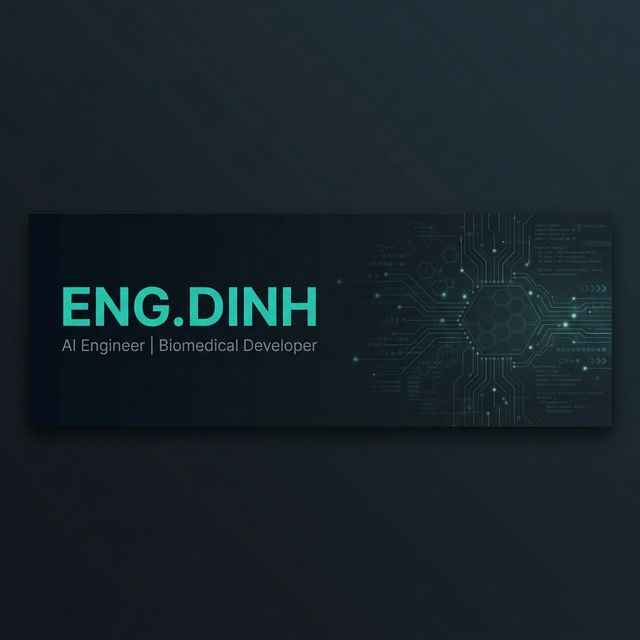
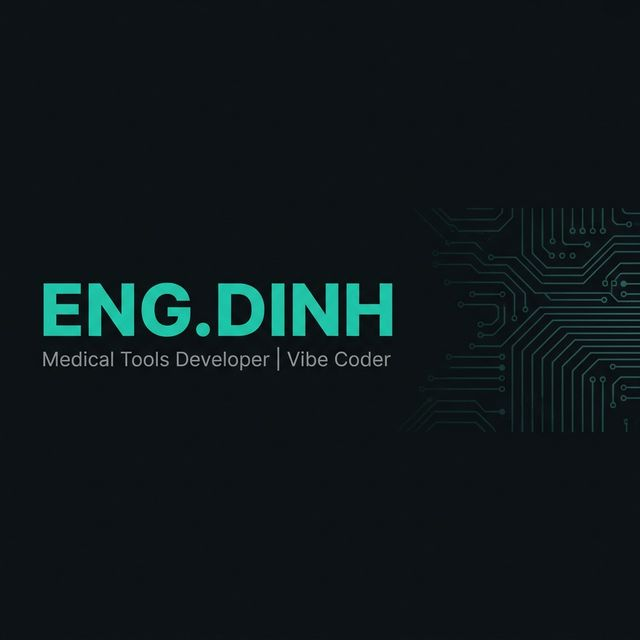
fix: compact cover, updated bio - Medical Tools Dev & Vibe Coder

diff --git a/README.md b/README.md
@@ -1,18 +1,15 @@
 
 <div align="center">
-  <img width="100%" src="cover-git.png" alt="ENG.DINH - AI Engineer & Biomedical Developer" />
+  <img width="100%" height="200" src="cover-git.png" alt="ENG.DINH" />
 </div>
 
 <div align="center">
-  <a href="https://git.io/typing-svg"><img src="https://readme-typing-svg.demolab.com?font=Fira+Code&weight=600&size=22&pause=1000&color=2dd4bf&center=true&vCenter=true&random=false&width=600&lines=AI+Engineer+%7C+Biomedical+Developer;3%2B+Years+of+Engineering+Experience;Building+Intelligent+Systems+%26+Tools;From+Medical+Devices+to+Trading+Bots" alt="Typing SVG" /></a>
+  <a href="https://git.io/typing-svg"><img src="https://readme-typing-svg.demolab.com?font=Fira+Code&weight=600&size=20&pause=1000&color=2dd4bf&center=true&vCenter=true&random=false&width=500&lines=Medical+Tools+Developer;Vibe+Coder+%F0%9F%9A%80;3%2B+Years+of+IT+Experience;From+Ho+Chi+Minh+City+%F0%9F%87%BB%F0%9F%87%B3" alt="Typing SVG" /></a>
 </div>
-
-<br/>
 
 <div align="center">
   <a href="https://www.linkedin.com/in/sang-dinh-a31856160/"><img src="https://img.shields.io/badge/LinkedIn-0A66C2?style=for-the-badge&logo=linkedin&logoColor=white" /></a>
   <a href="https://www.facebook.com/hoangsang2020/"><img src="https://img.shields.io/badge/Facebook-1877F2?style=for-the-badge&logo=facebook&logoColor=white" /></a>
-  <a href="mailto:dinhsang1999@gmail.com"><img src="https://img.shields.io/badge/Gmail-EA4335?style=for-the-badge&logo=gmail&logoColor=white" /></a>
 </div>
 
 ---
@@ -21,15 +18,15 @@
 
 ```yaml
 name: "ĐINH HOÀNG SÁNG (ENG.DINH)"
-role: "AI Engineer & Biomedical Developer"
+role: "IT Developer — Medical Tools & Vibe Coder"
 location: "Ho Chi Minh City, Vietnam 🇻🇳"
 education: "B.Eng Biomedical Engineering — International University (VNU-HCM)"
-experience: "3+ years in AI/ML & Medical Engineering"
+experience: "3+ years"
 
-current_focus:
-  - "Building AI-powered clinical & trading systems"
-  - "Quantitative analysis & TradingView indicators"
-  - "Full-stack development with Python & JavaScript"
+what_i_do:
+  - "Developing medical software & clinical tools"
+  - "Vibe coding — building things fast with AI-assisted tools"
+  - "TradingView indicators & quantitative scripts"
 ```
 
 ---
@@ -38,79 +35,51 @@ current_focus:
 
 <div align="center">
 
-### 🤖 AI / Machine Learning
-![Python](https://img.shields.io/badge/Python-3776AB?style=for-the-badge&logo=python&logoColor=white)
-![PyTorch](https://img.shields.io/badge/PyTorch-EE4C2C?style=for-the-badge&logo=pytorch&logoColor=white)
-![TensorFlow](https://img.shields.io/badge/TensorFlow-FF6F00?style=for-the-badge&logo=tensorflow&logoColor=white)
-![scikit-learn](https://img.shields.io/badge/Scikit--Learn-F7931E?style=for-the-badge&logo=scikitlearn&logoColor=white)
-![OpenCV](https://img.shields.io/badge/OpenCV-5C3EE8?style=for-the-badge&logo=opencv&logoColor=white)
-![Pandas](https://img.shields.io/badge/Pandas-150458?style=for-the-badge&logo=pandas&logoColor=white)
-![NumPy](https://img.shields.io/badge/NumPy-013243?style=for-the-badge&logo=numpy&logoColor=white)
+### 🐍 Languages
+![Python](https://img.shields.io/badge/Python-3776AB?style=flat-square&logo=python&logoColor=white)
+![JavaScript](https://img.shields.io/badge/JavaScript-F7DF1E?style=flat-square&logo=javascript&logoColor=black)
+![TypeScript](https://img.shields.io/badge/TypeScript-3178C6?style=flat-square&logo=typescript&logoColor=white)
+![Pine Script](https://img.shields.io/badge/Pine_Script-2962FF?style=flat-square&logo=tradingview&logoColor=white)
 
-### 🌐 Web & Full-Stack
-![JavaScript](https://img.shields.io/badge/JavaScript-F7DF1E?style=for-the-badge&logo=javascript&logoColor=black)
-![TypeScript](https://img.shields.io/badge/TypeScript-3178C6?style=for-the-badge&logo=typescript&logoColor=white)
-![React](https://img.shields.io/badge/React-61DAFB?style=for-the-badge&logo=react&logoColor=black)
-![Node.js](https://img.shields.io/badge/Node.js-339933?style=for-the-badge&logo=nodedotjs&logoColor=white)
-![FastAPI](https://img.shields.io/badge/FastAPI-009688?style=for-the-badge&logo=fastapi&logoColor=white)
-![Flask](https://img.shields.io/badge/Flask-000000?style=for-the-badge&logo=flask&logoColor=white)
-![HTML5](https://img.shields.io/badge/HTML5-E34F26?style=for-the-badge&logo=html5&logoColor=white)
-![CSS3](https://img.shields.io/badge/CSS3-1572B6?style=for-the-badge&logo=css3&logoColor=white)
+### 🧠 AI / ML
+![PyTorch](https://img.shields.io/badge/PyTorch-EE4C2C?style=flat-square&logo=pytorch&logoColor=white)
+![TensorFlow](https://img.shields.io/badge/TensorFlow-FF6F00?style=flat-square&logo=tensorflow&logoColor=white)
+![scikit-learn](https://img.shields.io/badge/Scikit--Learn-F7931E?style=flat-square&logo=scikitlearn&logoColor=white)
+![OpenCV](https://img.shields.io/badge/OpenCV-5C3EE8?style=flat-square&logo=opencv&logoColor=white)
 
-### 📊 Trading & Quant
-![TradingView](https://img.shields.io/badge/TradingView-131722?style=for-the-badge&logo=tradingview&logoColor=white)
-![Pine Script](https://img.shields.io/badge/Pine_Script-2962FF?style=for-the-badge&logo=tradingview&logoColor=white)
-![MATLAB](https://img.shields.io/badge/MATLAB-0076A8?style=for-the-badge&logo=mathworks&logoColor=white)
+### 🌐 Web & Backend
+![React](https://img.shields.io/badge/React-61DAFB?style=flat-square&logo=react&logoColor=black)
+![Node.js](https://img.shields.io/badge/Node.js-339933?style=flat-square&logo=nodedotjs&logoColor=white)
+![FastAPI](https://img.shields.io/badge/FastAPI-009688?style=flat-square&logo=fastapi&logoColor=white)
+![Flask](https://img.shields.io/badge/Flask-000?style=flat-square&logo=flask&logoColor=white)
+![HTML5](https://img.shields.io/badge/HTML5-E34F26?style=flat-square&logo=html5&logoColor=white)
+![CSS3](https://img.shields.io/badge/CSS3-1572B6?style=flat-square&logo=css3&logoColor=white)
 
-### 🛠 DevOps & Tools
-![Git](https://img.shields.io/badge/Git-F05032?style=for-the-badge&logo=git&logoColor=white)
-![Docker](https://img.shields.io/badge/Docker-2496ED?style=for-the-badge&logo=docker&logoColor=white)
-![Linux](https://img.shields.io/badge/Linux-FCC624?style=for-the-badge&logo=linux&logoColor=black)
-![VS Code](https://img.shields.io/badge/VS_Code-007ACC?style=for-the-badge&logo=visualstudiocode&logoColor=white)
-![Cursor](https://img.shields.io/badge/Cursor_AI-000000?style=for-the-badge&logo=cursor&logoColor=white)
-![SQLite](https://img.shields.io/badge/SQLite-003B57?style=for-the-badge&logo=sqlite&logoColor=white)
-![PostgreSQL](https://img.shields.io/badge/PostgreSQL-4169E1?style=for-the-badge&logo=postgresql&logoColor=white)
+### 🛠 Tools
+![Git](https://img.shields.io/badge/Git-F05032?style=flat-square&logo=git&logoColor=white)
+![Docker](https://img.shields.io/badge/Docker-2496ED?style=flat-square&logo=docker&logoColor=white)
+![VS Code](https://img.shields.io/badge/VS_Code-007ACC?style=flat-square&logo=visualstudiocode&logoColor=white)
+![Cursor](https://img.shields.io/badge/Cursor_AI-000?style=flat-square&logo=cursor&logoColor=white)
+![SQLite](https://img.shields.io/badge/SQLite-003B57?style=flat-square&logo=sqlite&logoColor=white)
+![TradingView](https://img.shields.io/badge/TradingView-131722?style=flat-square&logo=tradingview&logoColor=white)
 
 </div>
 
 ---
 
-## 📘 Featured Projects
+## 📈 GitHub Stats
 
 <div align="center">
-  <a href="https://github.com/dinhsang1999/thesis-project-skin-cancer-detection">
-    <img width="400" src="https://github-readme-stats.vercel.app/api/pin/?username=dinhsang1999&repo=thesis-project-skin-cancer-detection&theme=github_dark&hide_border=true&border_radius=10" />
-  </a>
-  <a href="https://github.com/dinhsang1999/IndicatorTradingviewPro">
-    <img width="400" src="https://github-readme-stats.vercel.app/api/pin/?username=dinhsang1999&repo=IndicatorTradingviewPro&theme=github_dark&hide_border=true&border_radius=10" />
-  </a>
-</div>
-
-<div align="center">
-  <a href="https://github.com/dinhsang1999?tab=repositories&sort=stargazers">
-    <img src="https://img.shields.io/badge/🔗_View_All_Repositories-2962FF?style=for-the-badge" />
-  </a>
-</div>
-
----
-
-## 📈 GitHub Analytics
-
-<div align="center">
-  <img width="49%" src="https://github-readme-stats.vercel.app/api?username=dinhsang1999&show_icons=true&theme=github_dark&hide_border=true&border_radius=10&count_private=true" />
-  <img width="49%" src="https://github-readme-streak-stats.herokuapp.com/?user=dinhsang1999&theme=github-dark-blue&hide_border=true&border_radius=10" />
-</div>
-
-<div align="center">
-  <img width="40%" src="https://github-readme-stats.vercel.app/api/top-langs/?username=dinhsang1999&layout=compact&theme=github_dark&hide_border=true&border_radius=10&langs_count=8" />
+  <img width="48%" src="https://github-readme-stats.vercel.app/api?username=dinhsang1999&show_icons=true&theme=github_dark&hide_border=true&count_private=true" />
+  <img width="48%" src="https://github-readme-streak-stats.herokuapp.com/?user=dinhsang1999&theme=github-dark-blue&hide_border=true" />
 </div>
 
 ---
 
 <div align="center">
-  <img src="https://komarev.com/ghpvc/?username=dinhsang1999&color=2dd4bf&style=for-the-badge&label=PROFILE+VIEWS" />
+  <img src="https://komarev.com/ghpvc/?username=dinhsang1999&color=2dd4bf&style=flat-square&label=Profile+Views" />
 </div>
 
 <div align="center">
-  <i>"Engineering solutions from lab bench to trading desk."</i>
+  <sub><i>"Build fast, ship faster."</i></sub>
 </div>
